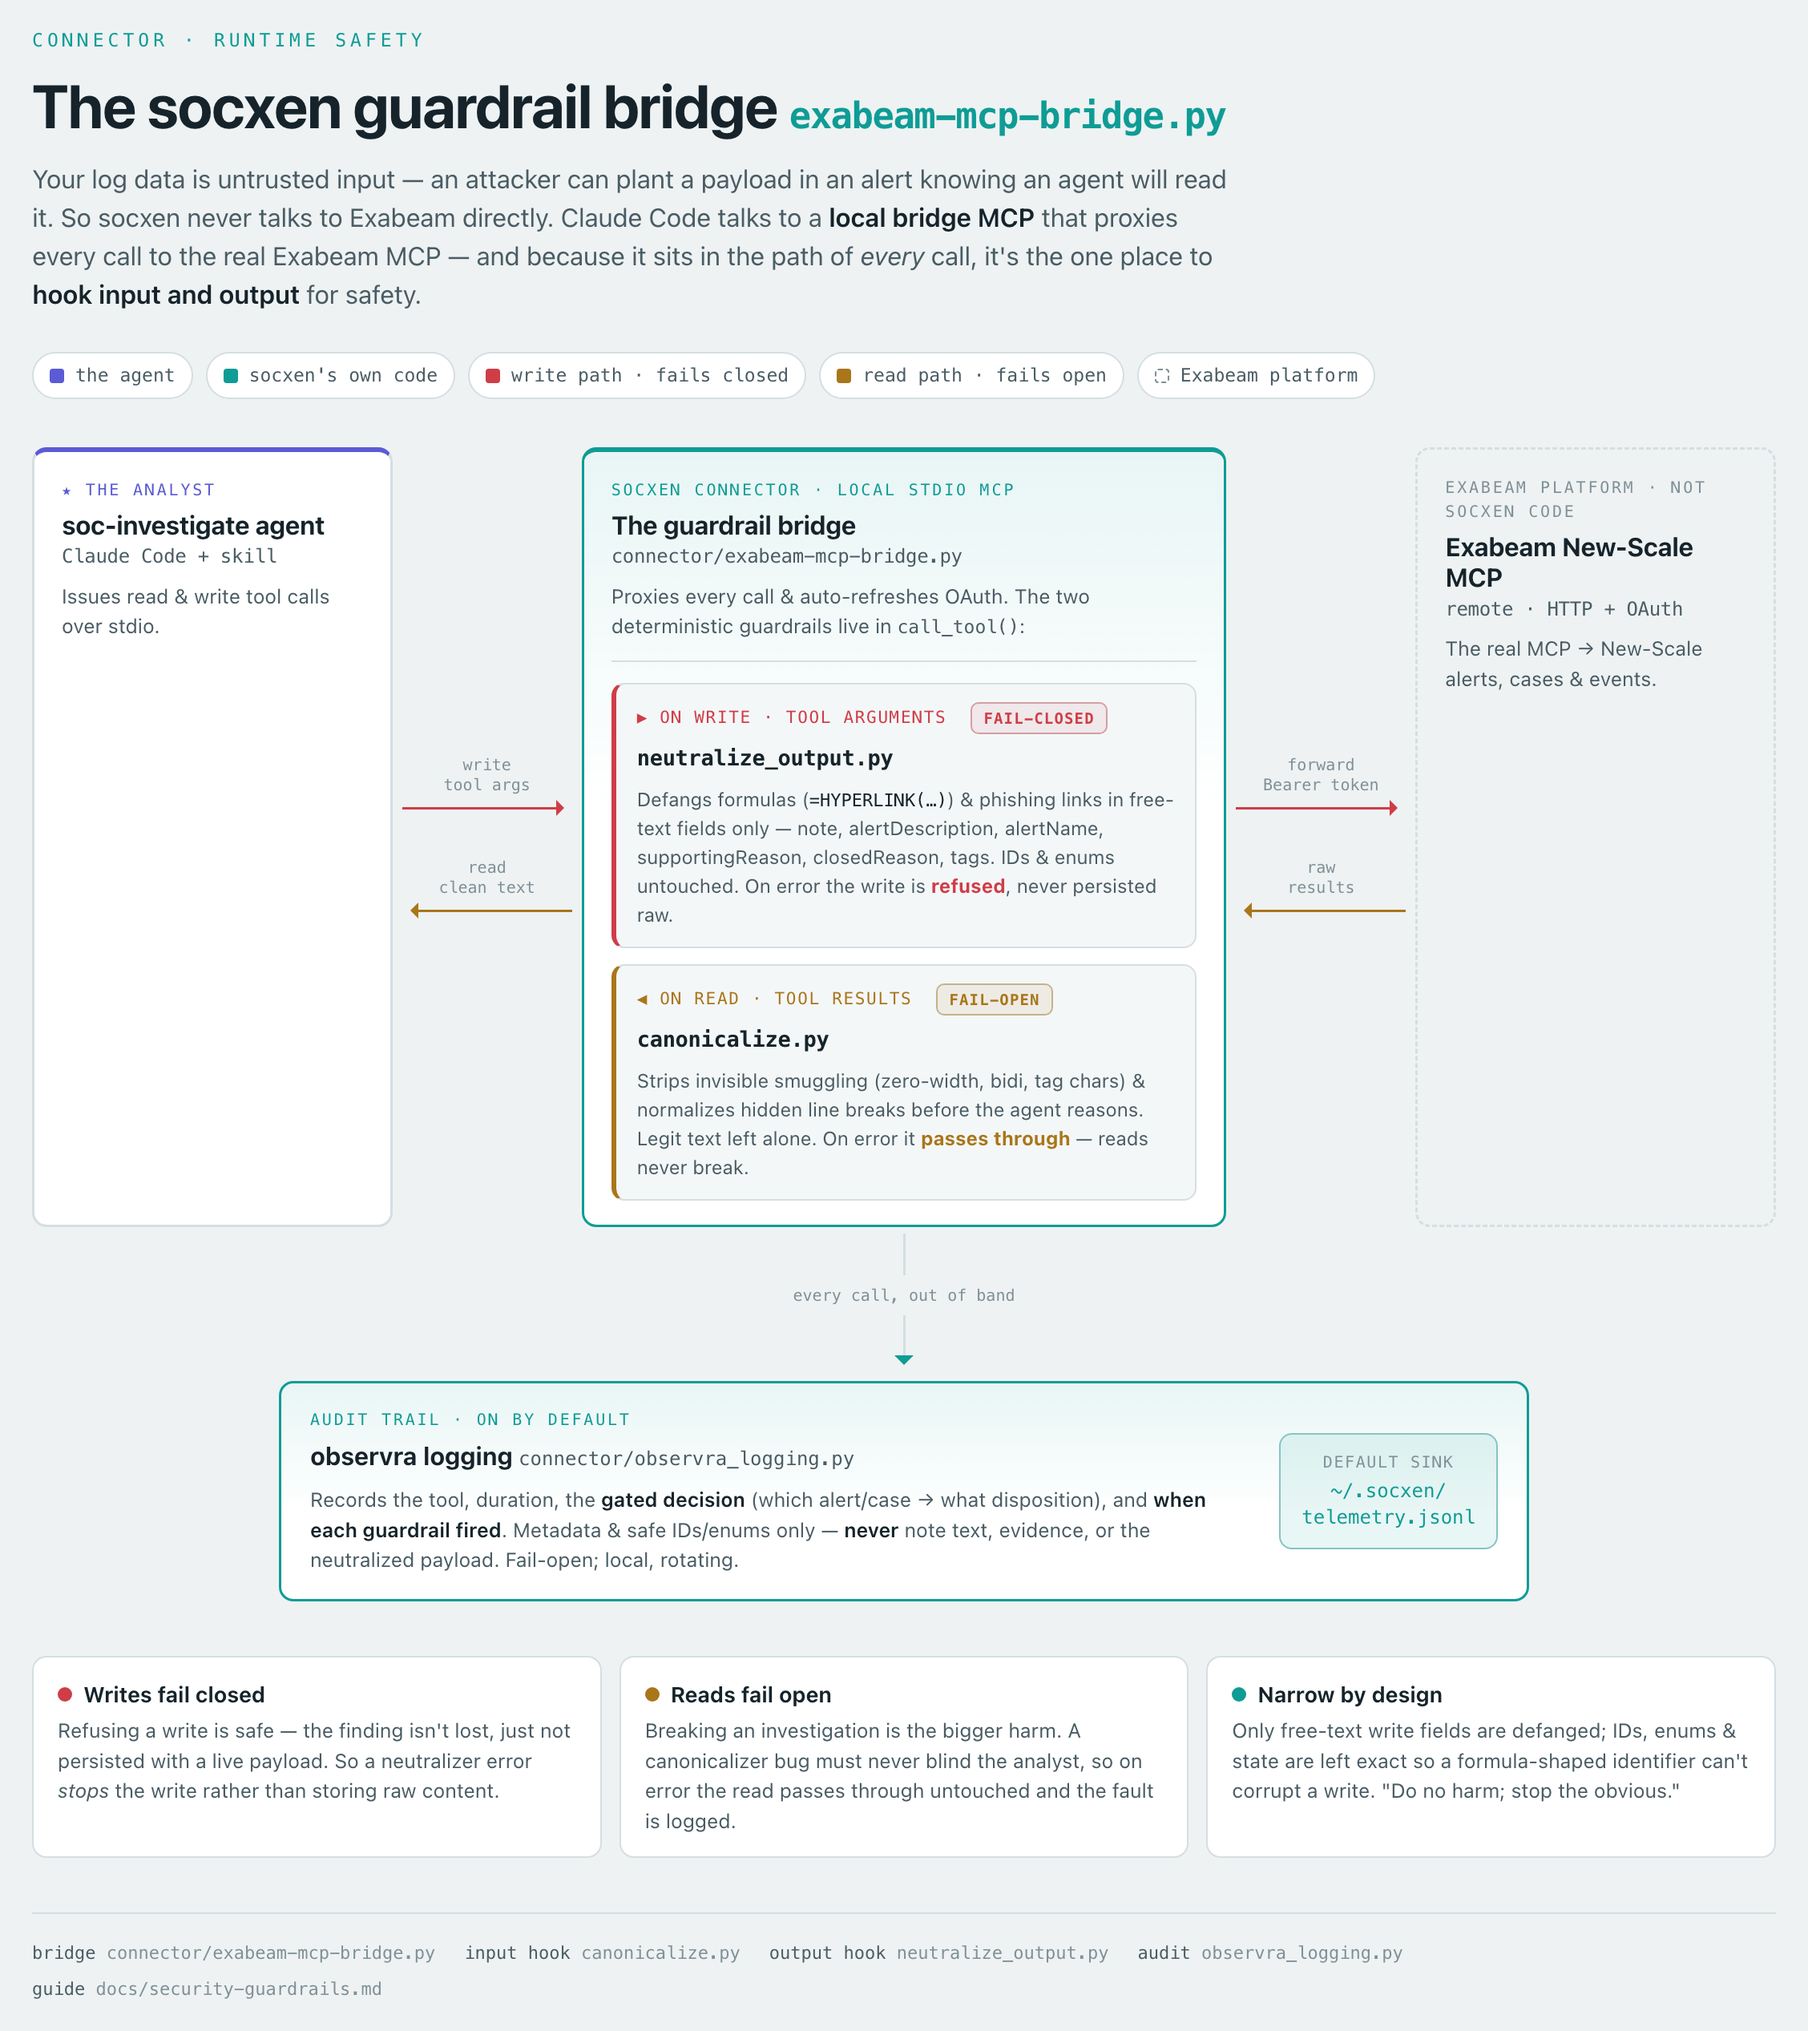
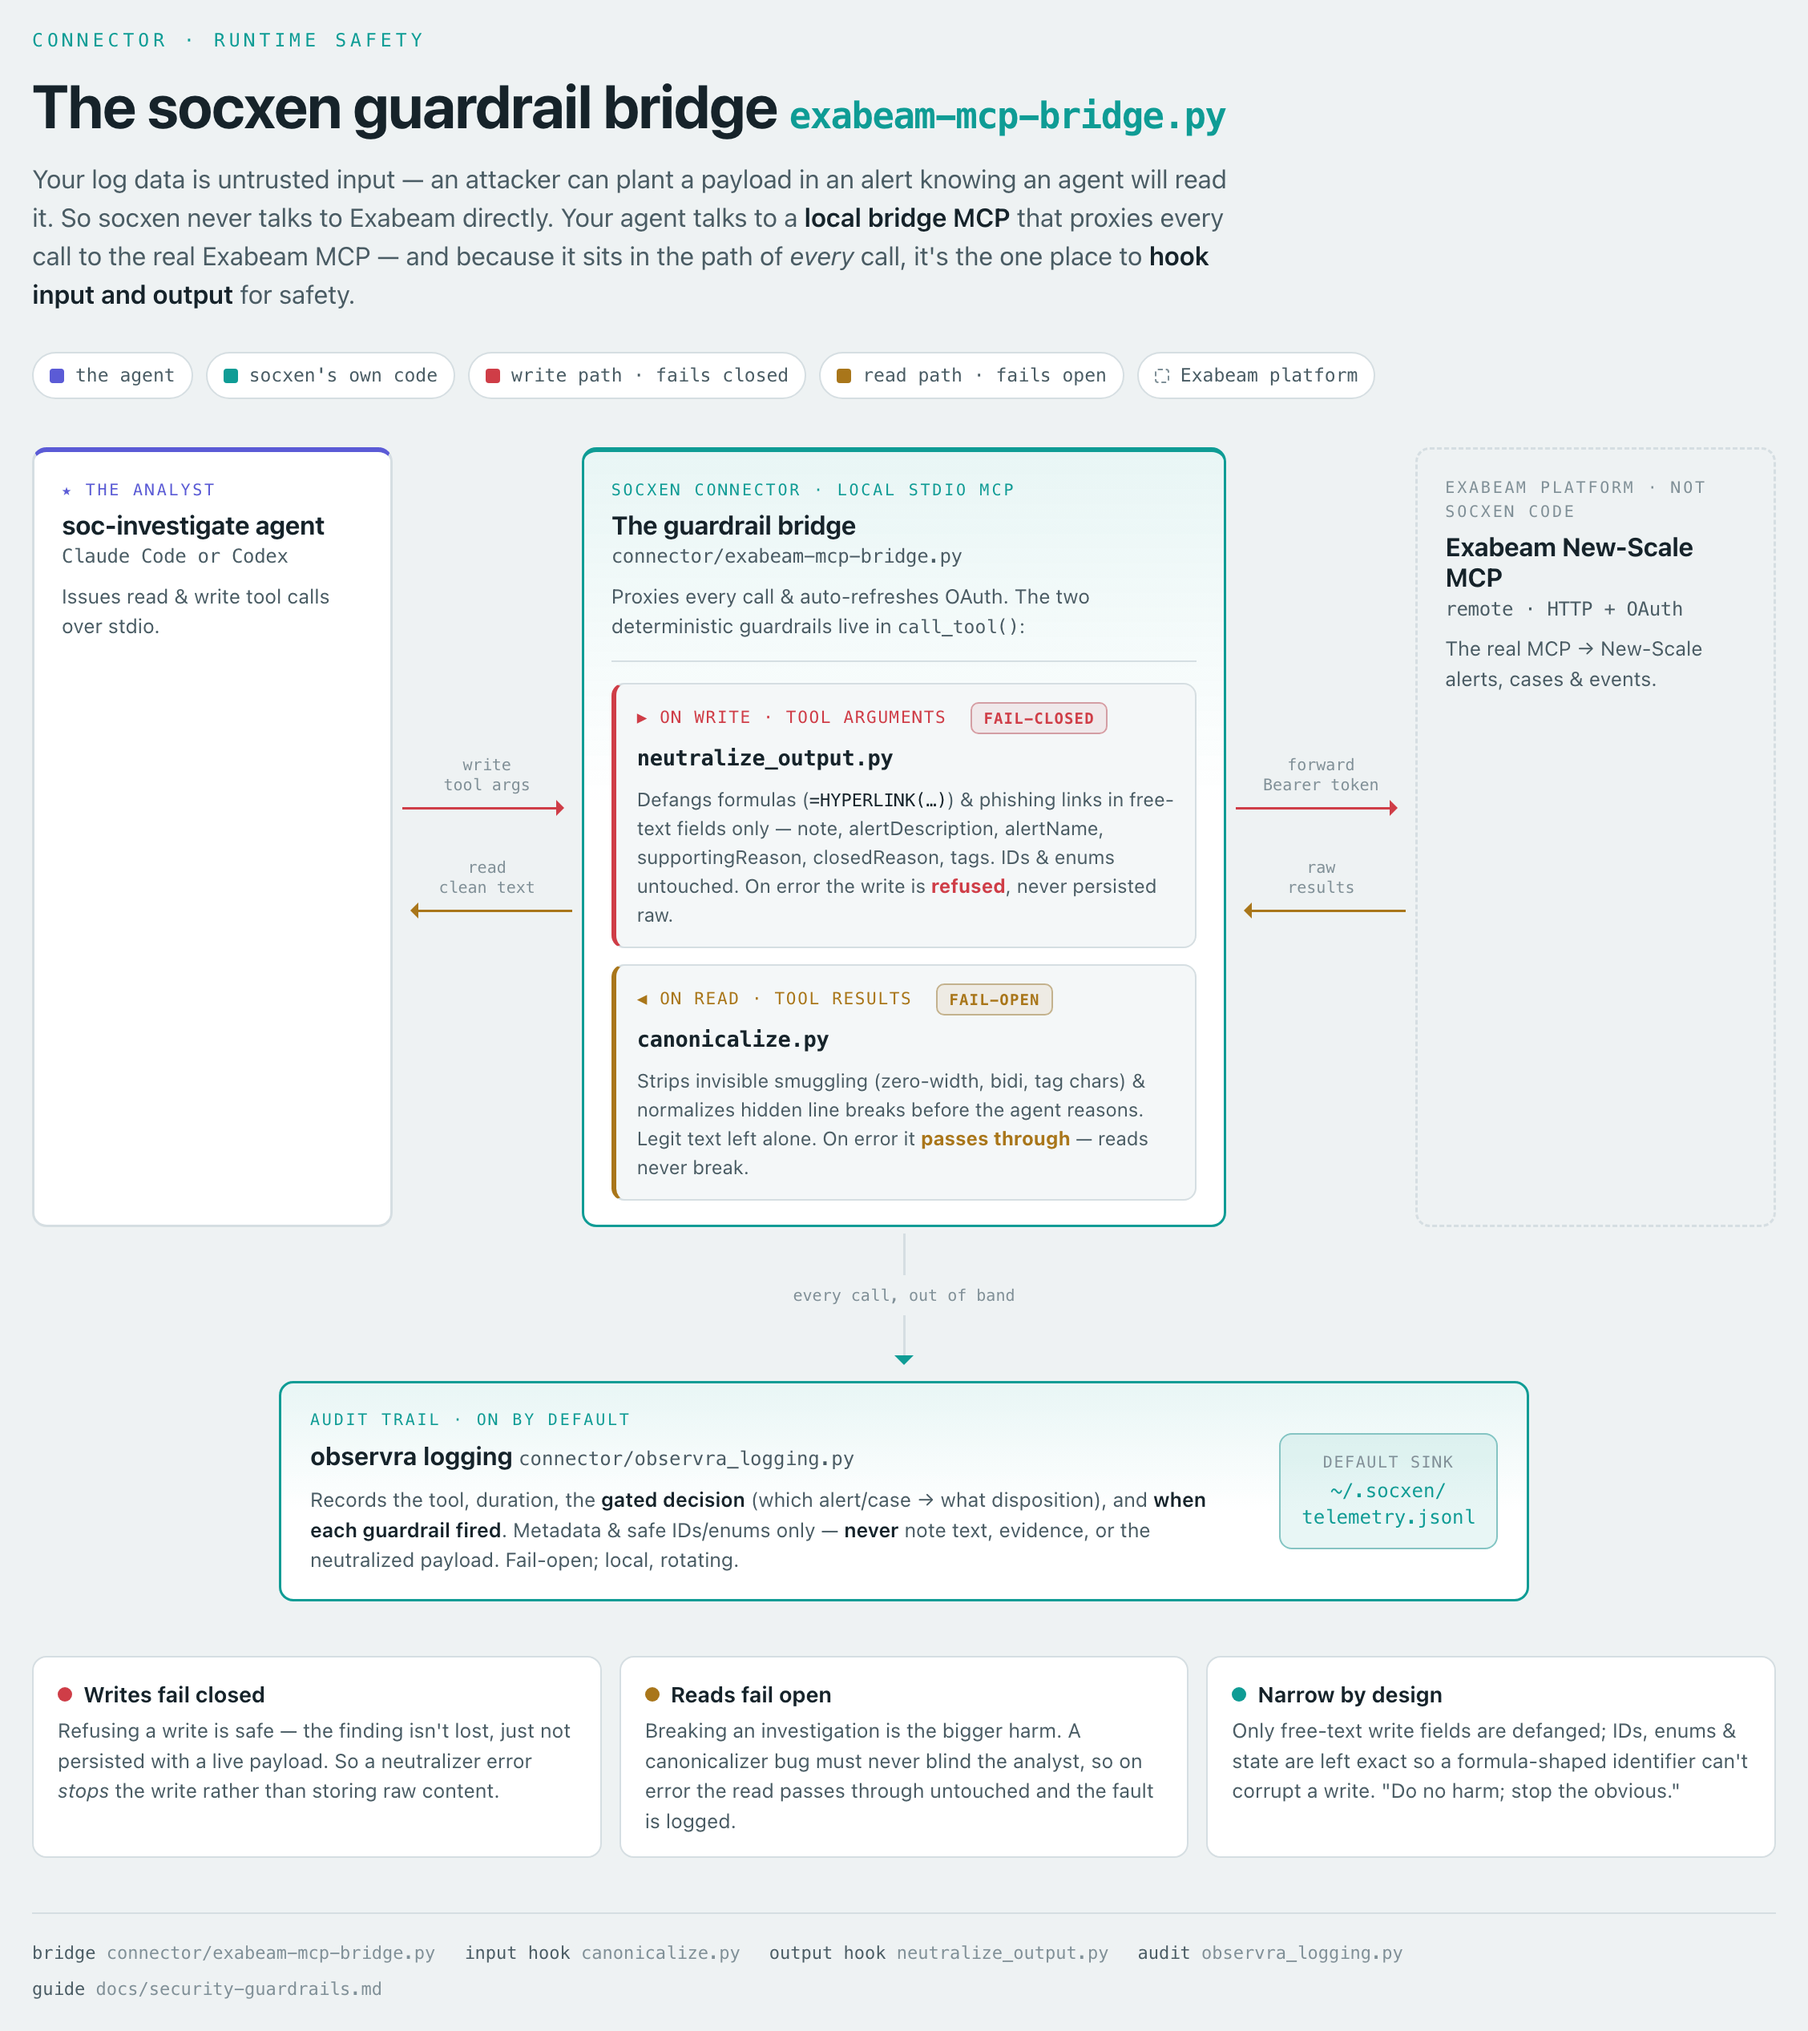
docs: re-render the guardrail figure host-neutral, and disclose Codex's durable copy
The guardrail diagram was the last visibly single-platform thing in the shipped
payload — it named Claude Code as the caller in both the lede and the agent node,
which is now wrong on half the supported hosts.

Regenerated from source rather than hand-edited (the PNGs are generated artifacts):
guardrails.html now reads "Your agent talks to a local bridge MCP", and the agent
node's path label is "Claude Code or Codex". Re-rendered both themes with
scripts/render_diagram.py and checked the output visually — the first attempt
orphaned "skill" onto its own line, so the label dropped it; "soc-investigate
agent" already says what it is. The doc's alt text now matches the figure.

Separately, and more substantively: the large-result disclosure added in #133 named
`~/.claude/projects/…/tool-results/` as the place raw unredacted telemetry lands.
That is Claude Code's layout, and a Codex user reading it would go looking for
files that do not exist while the same exposure sits somewhere else.

Codex's shape is different and worse for the reader. It keeps durable session and
thread history under `~/.codex/` — `sessions/`, `archived_sessions/`, and SQLite
stores (`thread_history_*.sqlite`, `logs_*.sqlite`; the latter is 117 MB on the
machine this was written on) — rather than one file per oversized result. So the
same "durable, unredacted, on your machine" caution applies with less recourse:
there is no single result file to delete.
[…]

Changed region(s): [[0.3103, 0.0935, 0.6826, 0.1559], [0.031, 0.1247, 0.2793, 0.1559], [0.1241, 0.2494, 0.1551, 0.2806]]

diff --git a/plugin/docs/diagram/guardrails.html b/plugin/docs/diagram/guardrails.html
@@ -141,7 +141,7 @@
   <h1>The socxen guardrail bridge <span class="mono">exabeam-mcp-bridge.py</span></h1>
   <p class="lede">
     Your log data is untrusted input — an attacker can plant a payload in an alert knowing an agent will
-    read it. So socxen never talks to Exabeam directly. Claude Code talks to a <strong>local bridge MCP</strong>
+    read it. So socxen never talks to Exabeam directly. Your agent talks to a <strong>local bridge MCP</strong>
     that proxies every call to the real Exabeam MCP — and because it sits in the path of <em>every</em>
     call, it's the one place to <strong>hook input and output</strong> for safety.
   </p>
@@ -158,7 +158,7 @@
     <!-- agent -->
     <div class="col agent">
       <div class="role">★ the analyst</div>
-      <div class="nm">soc-investigate agent<span class="path">Claude Code + skill</span></div>
+      <div class="nm">soc-investigate agent<span class="path">Claude Code or Codex</span></div>
       <div class="sub">Issues read &amp; write tool calls over stdio.</div>
     </div>
 

diff --git a/plugin/docs/security-guardrails.md b/plugin/docs/security-guardrails.md
@@ -18,7 +18,7 @@ configuration.
 <p align="center">
   <picture>
     <source media="(prefers-color-scheme: dark)" srcset="diagram/guardrails-dark.png">
-    <img alt="socxen guardrail bridge: Claude Code talks to a local bridge MCP that proxies to the remote Exabeam MCP. On writes, neutralize_output defangs formulas and links and redacts secrets/structured identifiers in free-text fields (fail-closed); on reads, canonicalize strips invisible smuggling before the agent reasons (fail-open); observra records a metadata-only audit trail of every call." src="diagram/guardrails-light.png" width="900">
+    <img alt="socxen guardrail bridge: your agent (Claude Code or Codex) talks to a local bridge MCP that proxies to the remote Exabeam MCP. On writes, neutralize_output defangs formulas and links and redacts secrets/structured identifiers in free-text fields (fail-closed); on reads, canonicalize strips invisible smuggling before the agent reasons (fail-open); observra records a metadata-only audit trail of every call." src="diagram/guardrails-light.png" width="900">
   </picture>
 </p>
 
@@ -91,6 +91,13 @@ Keep expectations honest:
   already authorised to read that data — but unlike scratch it **persists after the session and is not
   pruned automatically.** socxen itself neither writes nor transmits it (the harness does), but the raw
   copy is durable: **if the case data is sensitive, delete those files when you're done.**
+
+  **On Codex the location differs, and is harder to clean up.** Codex keeps durable session and thread
+  history under `~/.codex/` — `sessions/`, `archived_sessions/`, and SQLite stores such as
+  `thread_history_*.sqlite` and `logs_*.sqlite` — rather than one file per oversized result. The same
+  caution applies with less recourse: there is no single result file to delete. We have not yet
+  characterised precisely where an oversized MCP result lands on Codex, so until we have, treat the whole
+  of `~/.codex/` as durable and unredacted.
 - Redaction covers **structured** secrets and identifiers (keys, tokens, SSNs, card numbers) — the shapes
   a deterministic pass can catch without mangling legitimate reports. It does **not** chase free-form
   personal data such as **names or home addresses**, or **dates of birth** (a date is indistinguishable
